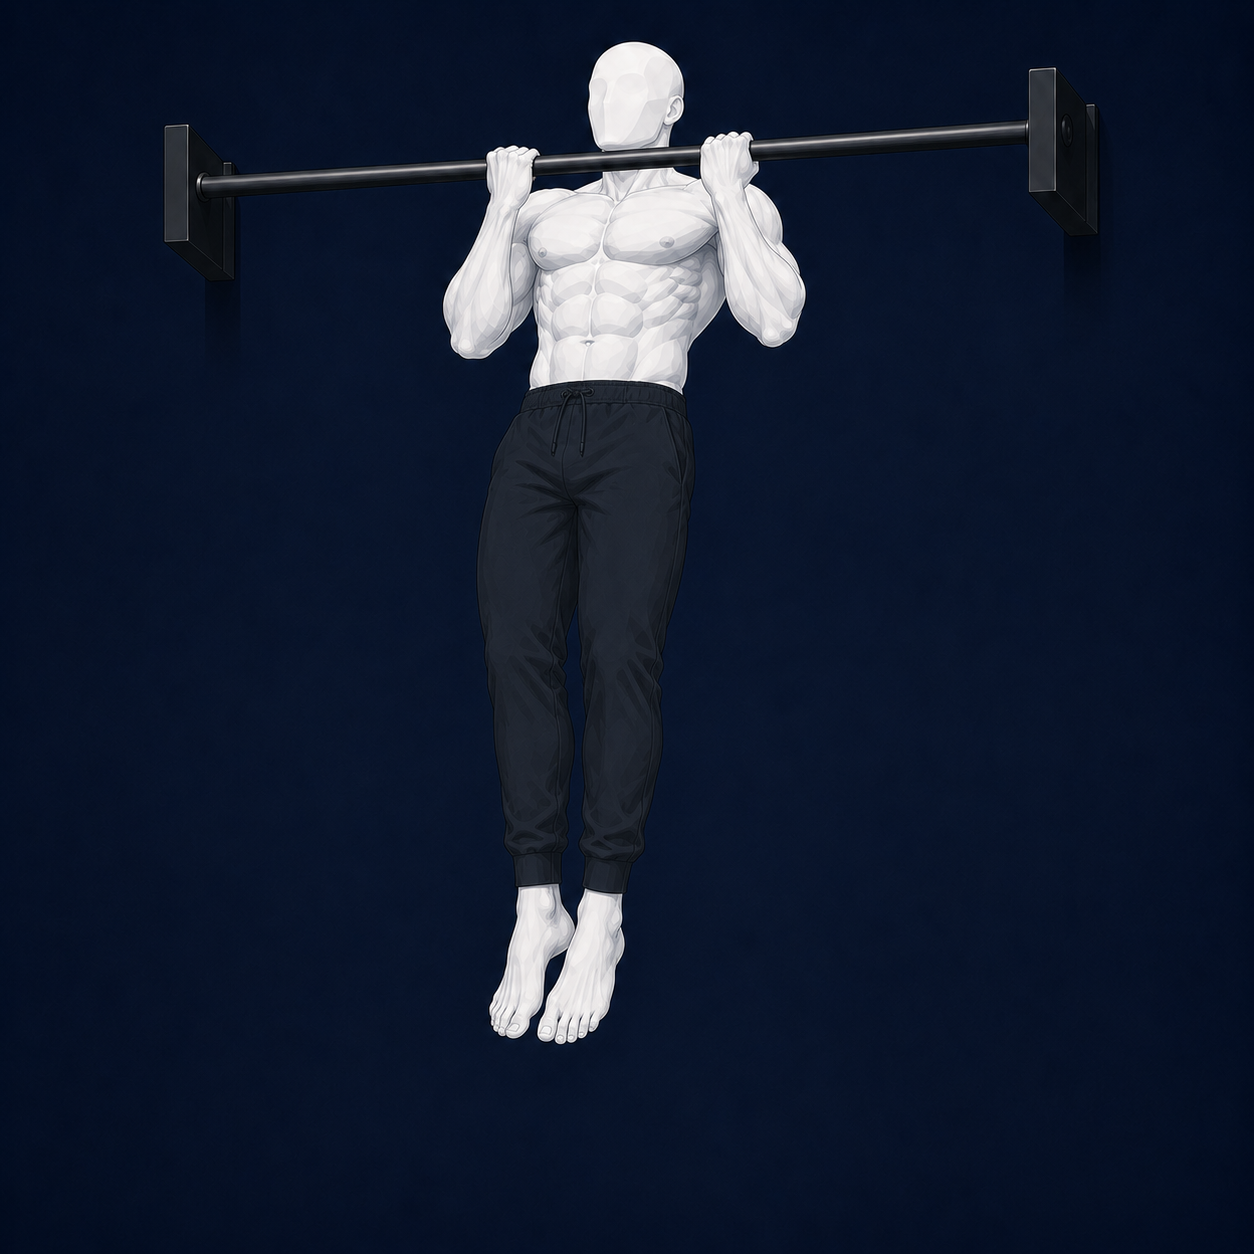
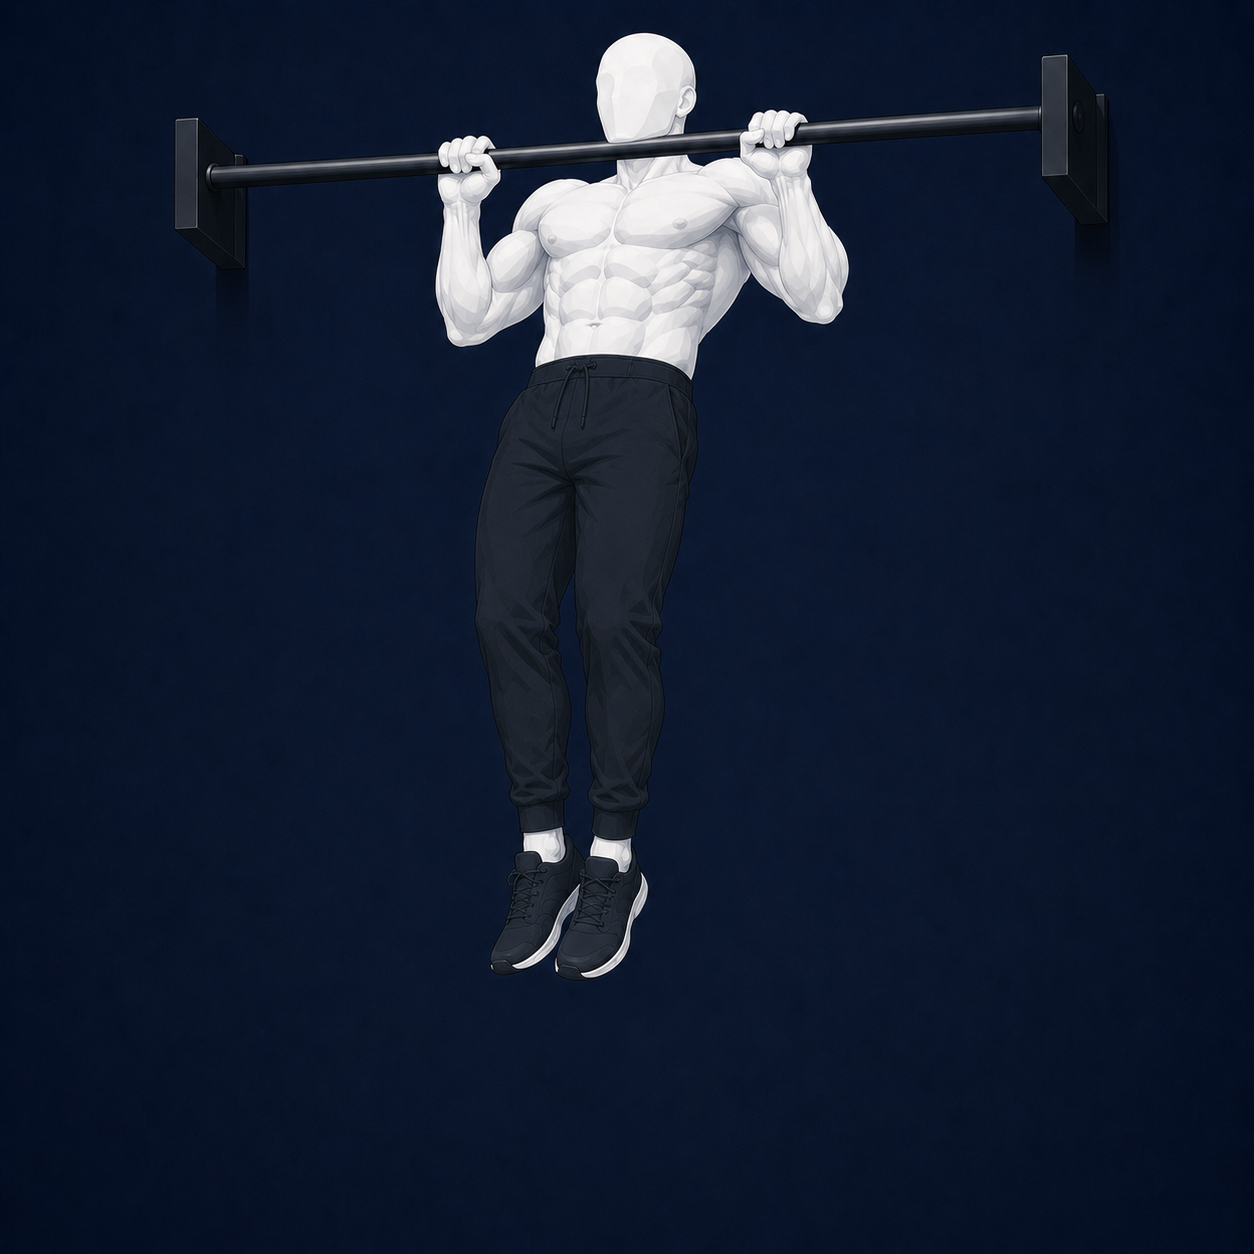
Fix pull-up / chin-up images
The photo previously used for Weighted pull-ups was actually the
chin-up grip. Preserve it as chin-ups.png and wire it to Bar
chin-ups; replace weighted-pull-ups.png with the correct overhand
pull-up render.

Only the Warmup primers remain without photos now.

Changed region(s): [[0.1244, 0.0, 0.8708, 0.3421], [0.3732, 0.6531, 0.5287, 0.8397]]

diff --git a/data/workouts.ts b/data/workouts.ts
@@ -36,6 +36,7 @@ const workouts: Day[] = [
       },
       {
         name: 'Bar chin-ups, 12 kg',
+        image: 'chin-ups',
         sets: 4,
         reps: '4–6',
         restSeconds: 120,

diff --git a/src/data/exerciseImages.ts b/src/data/exerciseImages.ts
@@ -9,6 +9,7 @@ import type { ImageSourcePropType } from 'react-native';
 const EXERCISE_IMAGES: Record<string, ImageSourcePropType> = {
   // ── Pull ──────────────────────────────────────────────────────────────────
   'weighted-pull-ups': require('../../assets/exercises/weighted-pull-ups.png'),
+  'chin-ups': require('../../assets/exercises/chin-ups.png'),
   'ring-rows': require('../../assets/exercises/ring-rows.png'),
   'ring-face-pulls': require('../../assets/exercises/ring-face-pulls.png'),
   'ring-curls': require('../../assets/exercises/ring-curls.png'),